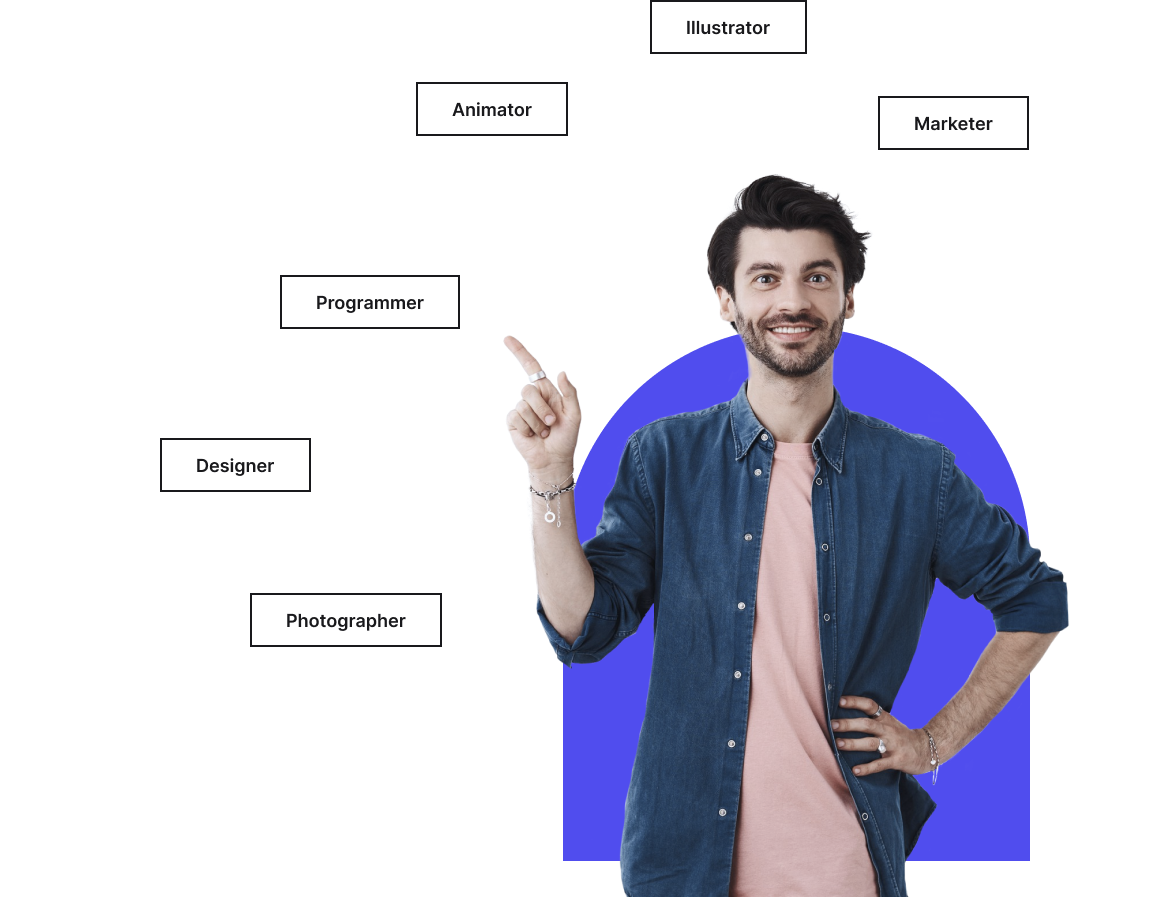
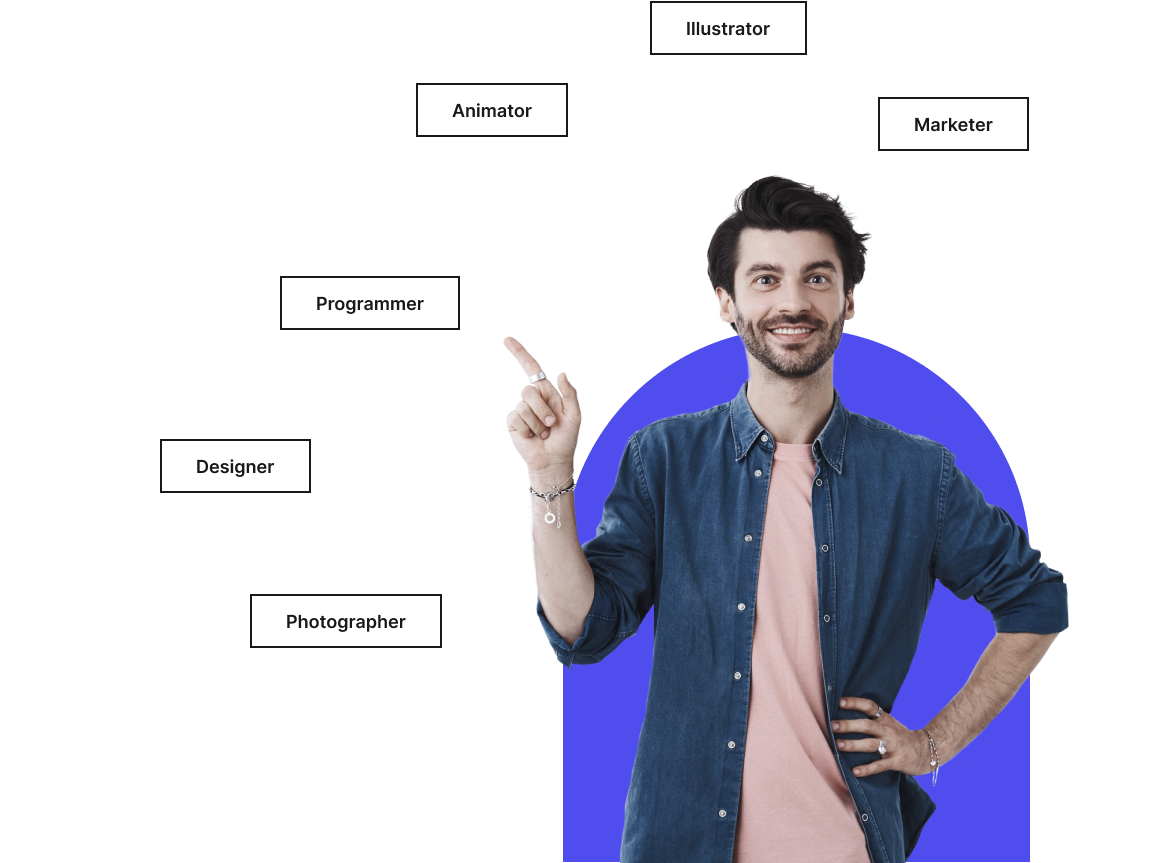
update header

diff --git a/src/components/Header/Header.css b/src/components/Header/Header.css
@@ -190,16 +190,24 @@
     }
 } */
     
+    header {
+        background-color: #EFEFF2;
+    }
+    
     .buttom {
         border-radius: 0;
         font-size: 20px;
         padding: 15px;
         width: 250px;
-        margin-bottom: 150px;
+        margin-bottom: 120px;
     }
     
     .H {
-        padding: 80px 0px;
+        padding: 80px 0px 0px 0px;
+        background-image: url('./public/assets/images/Hero_Images/Main page/Ellipse 20.png');
+        background-repeat: no-repeat;
+        background-position: center;
+        background-size: contain;
     }
     
     .H h2 {
@@ -219,6 +227,7 @@
     }
     
     .DD {
+        margin-top: 70px;
         display: flex;
         flex-direction: column;
         justify-content: center;
@@ -252,6 +261,17 @@
     
     .contain-header {
         padding: 100px 200px;
+        position: relative;
+    }
+    
+    .colum {
+        position: absolute;
+        bottom: -50px;
+        right: 0px;
+        background-image: url('./public/assets/images/Hero_Images/Main page/Ellipse 21.png');
+        background-repeat: no-repeat;
+        background-position: right;
+        background-size: contain;
     }
     
     @media (max-width: 1400px) {
@@ -285,20 +305,37 @@
         }
     }
     
-    @media (max-width: 850px) {
+    @media (max-width: 1050px) {
         .contain-header {
             padding: 30px;
         }
+        .contain-header {
+            display: flex;
+            /* flex-direction: column !important; */
+            justify-content: center;
+            flex-wrap: wrap;
+            align-items: center;
+            height: 100vh;
+        }
         .H h2 {
-            font-size: 25px;
+            font-size: 20px;
             font-weight: 700;
-            width: 80%;
+            width: 100%;
         }
     }
     
-    @media (max-width: 400px) {
-        .img-fluid {
-            margin-top: 40px;
+    @media (max-width: 1190px) {
+        .H h2 {
+            width: 300% !important;
+            font-size: 30px;
+            padding: 0px;
+        }
+    }
+    
+    @media (max-width: 650px) {
+        .H h2 {
             width: 100% !important;
+            font-size: 30px;
+            padding: 0px;
         }
     }

diff --git a/src/components/Header/Header.jsx b/src/components/Header/Header.jsx
@@ -60,7 +60,7 @@ const Header= () => {
            </div>
             
           </Col>
-          <Col md={8}>
+          <Col md={8} className='colum'>
             <img src="./public/assets/images/Hero_Images/Main page/Courses and image.png" alt="Header Image" className="img-fluid" />
           </Col>
         </Row>
